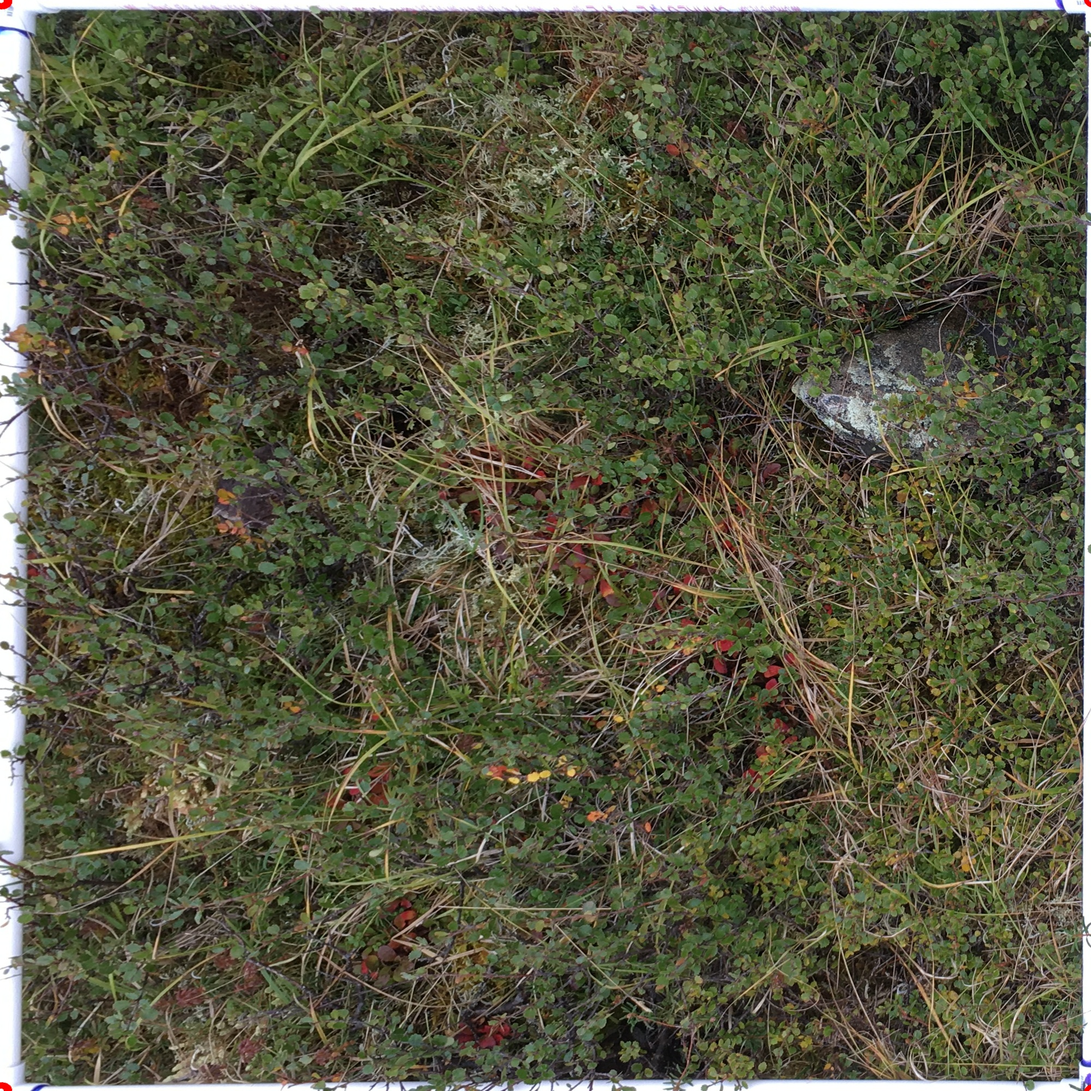
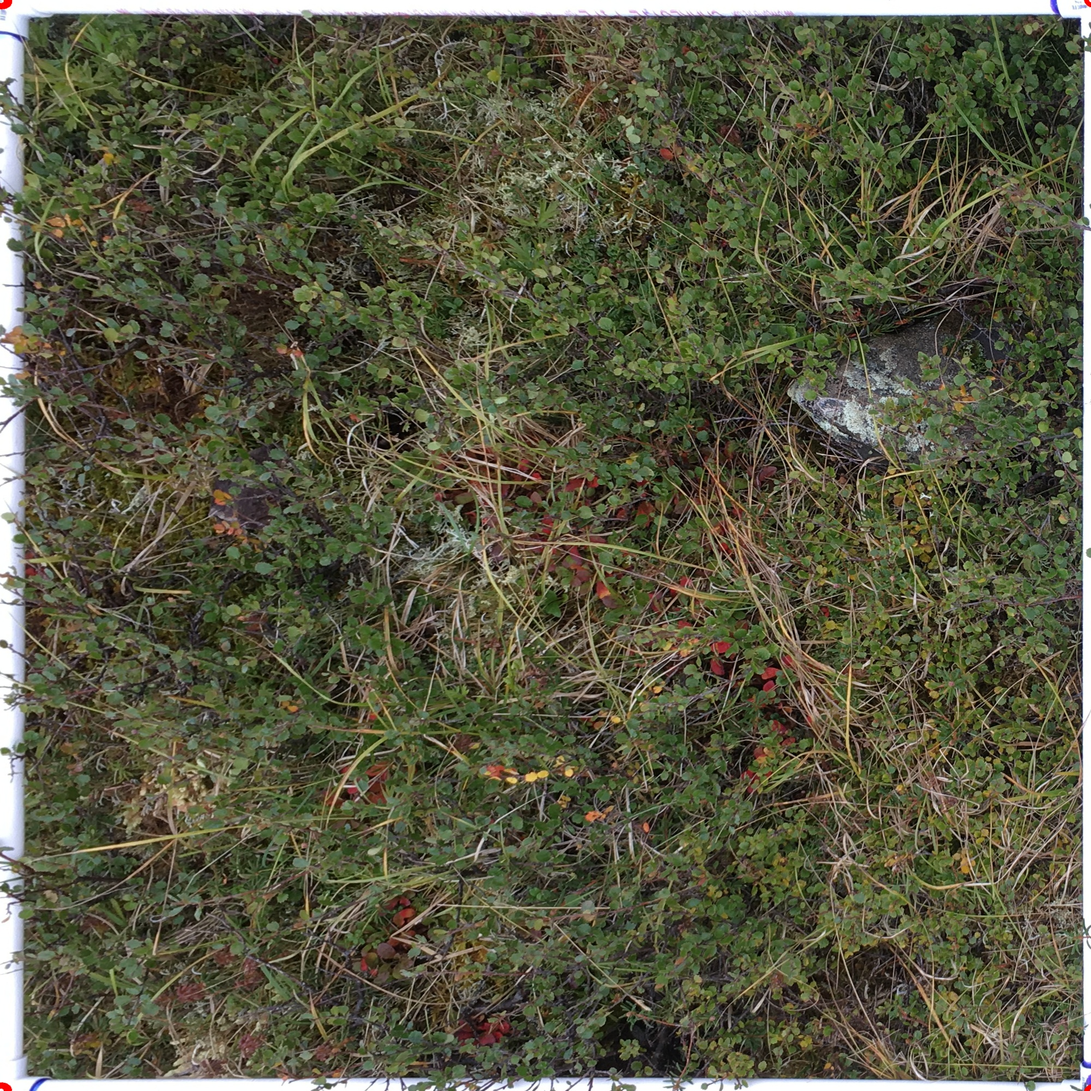
made goal points more simple

diff --git a/main.py b/main.py
@@ -41,7 +41,8 @@ def homography(pts, goal, img):
     return out
 
 def crop(img):
-    return img[512:2512, 1016:3016]
+    #return img[512:2512, 1016:3016]
+    return img[0:2000, 0:2000]
 
 def save_img(img):
     path = "data/corrected_images" + images[0][15:]
@@ -52,7 +53,8 @@ cur_point = (0,0)
 #img = None
 pts = []
 images = get_images('data/to_correct/')
-goal_points = np.array([[1016, 512], [3016, 512], [1016, 2512], [3016, 2512]])
+#goal_points = np.array([[1016, 512], [3016, 512], [1016, 2512], [3016, 2512]])
+goal_points = np.array([[0,0], [2000, 0], [0,2000], [2000,2000]])
 
 while(1):
     if len(images) > 0:
